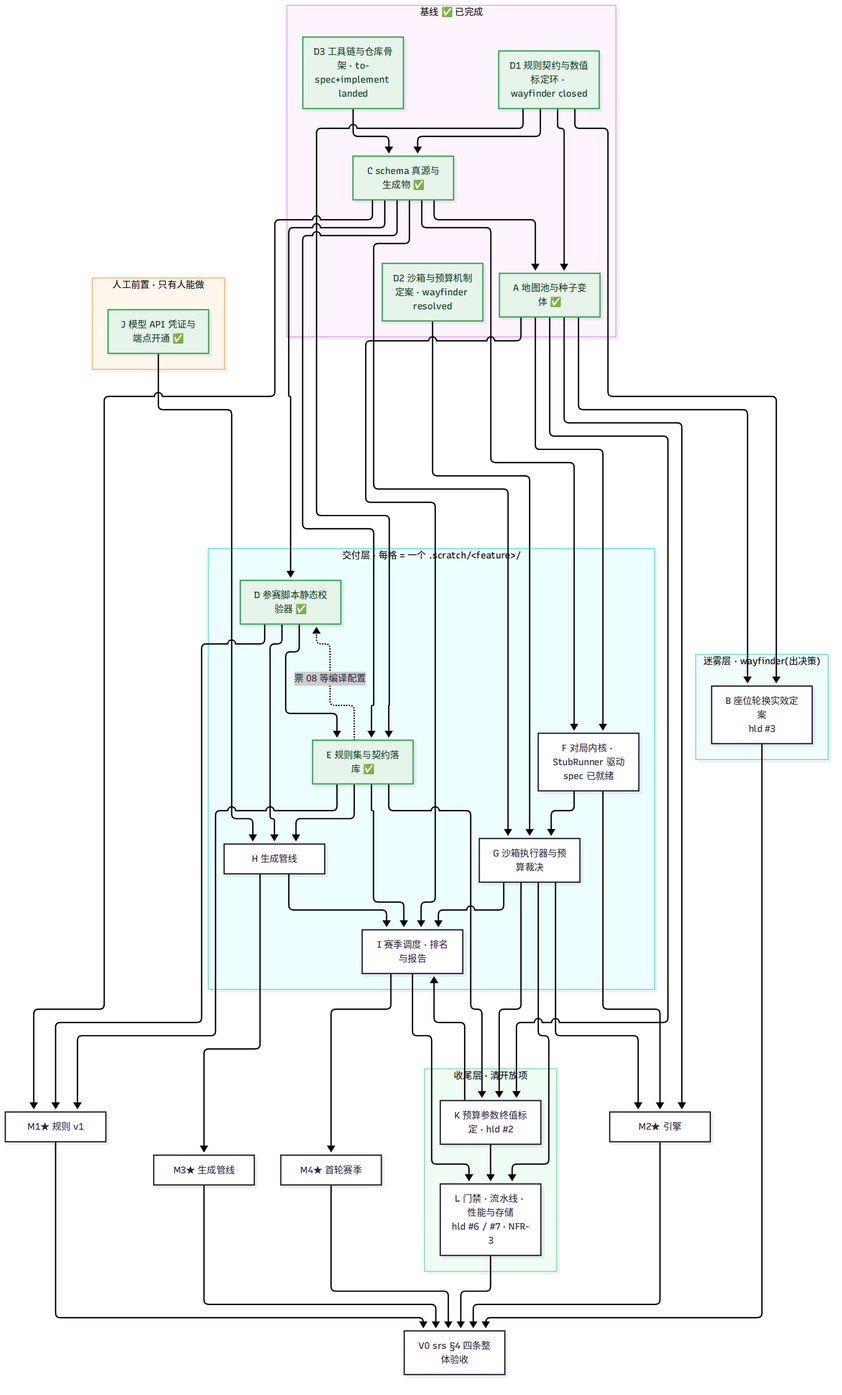
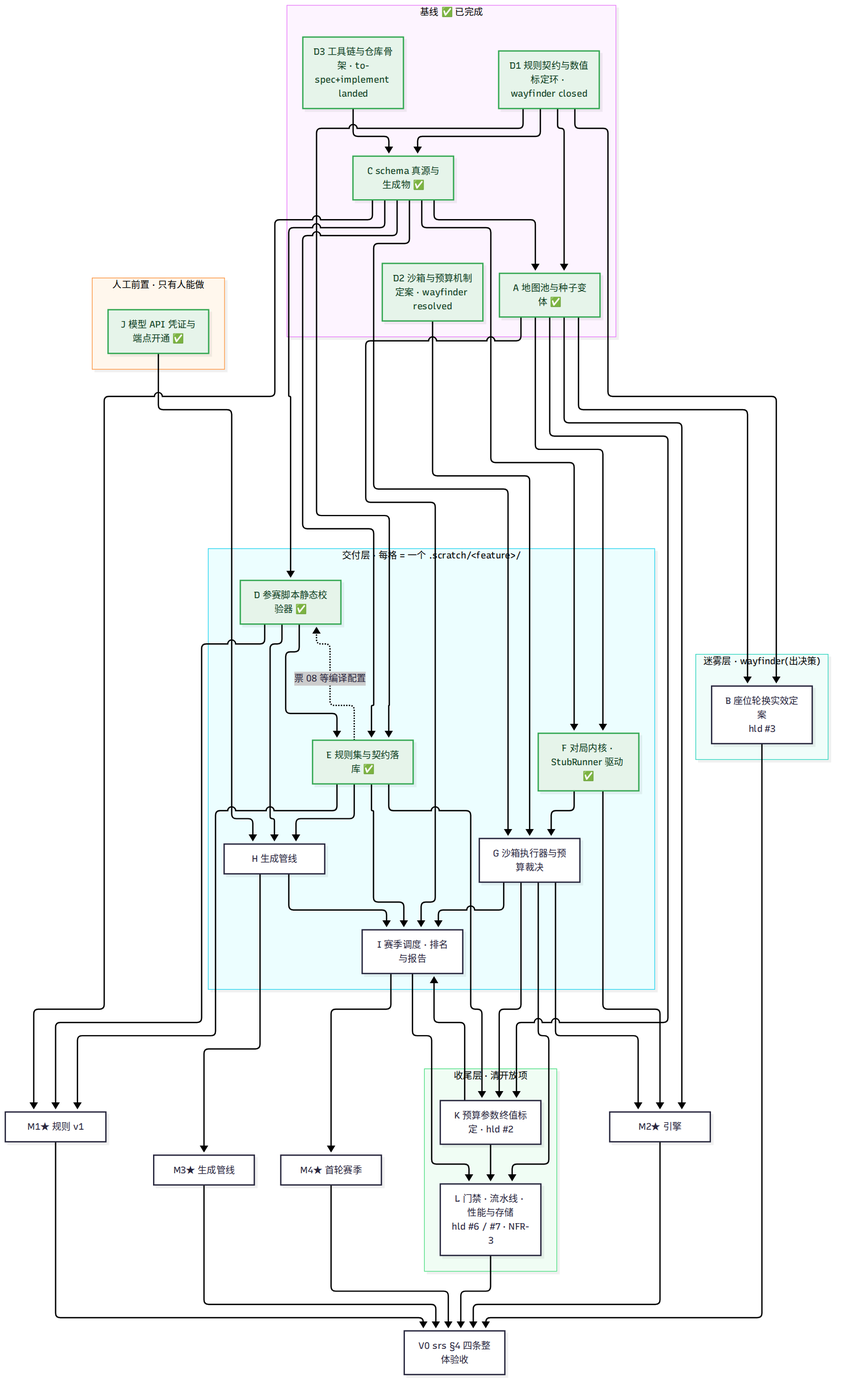
docs: 设计文档对账、欠账销账与六类裁法的留痕(票 12)

Changed region(s): [[0.625, 0.4988, 0.7812, 0.5924]]

diff --git a/packages/tools/src/api-doc.test.ts b/packages/tools/src/api-doc.test.ts
@@ -295,3 +295,39 @@ it("丢弃 vs 异常对照表里被点名的错误码与符号表一致", () => 
     );
   }
 });
+
+/**
+ * **契约面 §2.1 那份快照形状与类型面逐字段一致。**
+ *
+ * ── 它补的是哪一个洞 ──
+ * `api.md` §2.1 有一段手写的快照形状(`type Player` / `type Unit` / `type Site`),类型面
+ * (`packages/schema/script-api/index.d.ts`)里也各有一份。这段散文曾经是「等回填的承诺」,
+ * 现在它自称是类型面的投影——投影回来之后,它就不再是承诺,而是**可以被对齐**的两份形状:
+ * 字段名或次序改了任何一边,另一边就是一处会误导模型的第二家(模型照文档写、编译器照声明判)。
+ *
+ * ── 判据为什么是字段名而不是逐字文本 ──
+ * 两边本来就不逐字相同(契约面写 `owner: 0 | 1 | 2 | 3`,类型面写 `owner: PlayerIndex`;
+ * 契约面把产线订单内联成 `{ type, remainingTicks }`,类型面拆成一个具名类型)。逐字比会把
+ * 这些**有意的写法差**全判成红,而它们不改变「有哪些字段」。所以判据取**字段名与次序**:
+ * 它正好是「投影」这个词在字段这一层上的含义。
+ *
+ * 反例:把类型面 `Site` 的 `producing` 删掉一层(或改个名),本条红。
+ */
+const typeMemberNames = (source: string, typeName: string): readonly string[] => {
+  const block = new RegExp(`type ${typeName} = \\{([\\s\\S]*?)\\n\\};`).exec(source);
+  expect(block, `抽不出 \`type ${typeName} = { … }\``).not.toBeNull();
+  return (block?.[1] ?? "")
+    .split("\n")
+    .map((line) => /^\s*(?:readonly\s+)?(\w+)\??\s*:/.exec(line)?.[1])
+    .filter((name): name is string => name !== undefined);
+};
+
+it("契约面 §2.1 的快照形状与类型面逐字段一致", () => {
+  const doc = readFileSync(API_DOC, "utf8");
+  const face = readFileSync(TYPE_FACE, "utf8");
+  for (const name of ["Player", "Unit", "Site"]) {
+    expect(typeMemberNames(doc, name), `${name}:契约面与类型面字段不一致`).toEqual(
+      typeMemberNames(face, name),
+    );
+  }
+});

diff --git a/packages/tools/src/script-api-type-surface.test.ts b/packages/tools/src/script-api-type-surface.test.ts
@@ -230,8 +230,12 @@ function loop(): void {
   // 那样这一条就只证明「有个叫 type / kind 的字段」,证不出它的取值域。
   const unitType: "worker" | "melee" | "ranged" | "cavalry" = snap.units[0]!.type;
   const siteKind: "base" | "resource" = snap.sites[0]!.kind;
+  // 产线订单的 type 也是契约面逐字段承诺的一栏(type 与 remainingTicks),单独读一次。
+  const producedType: "worker" | "melee" | "ranged" | "cavalry" | null =
+    snap.sites[0]!.producing?.type ?? null;
   void unitType;
   void siteKind;
+  void producedType;
 }
 `;
   const result = compile(probe);

diff --git a/.scratch/engine-core/issues/12-doc-reconciliation.md b/.scratch/engine-core/issues/12-doc-reconciliation.md
@@ -24,15 +24,128 @@
 
 **Blocked by:** 11（确定性验收、首触复核与读数）
 
-**Status:** ready-for-agent
+**Status:** resolved
 
-- [ ] 清单每一行都被处理,并在 spec 末尾那张表上逐行标注「已改 / 有意不改 + 原因」。**有意不改的行要写原因**,不能留空
-- [ ] 里程碑 DAG 的 F 行改成已收口,并把两处与原记载不同的裁留在图上:唯一外部缝是那一道主缝、处理器的 tick 缝是私有内部缝不进导出面;复算那一格归沙箱执行器
-- [ ] 里程碑 DAG 的图重画(那一格有配套 PNG,PNG 与 mermaid 源要一起更新,不能让其中一份单独过期)
-- [ ] 「读入端强制校验覆盖面」那一段:覆盖面变了就改覆盖面,**并把「为什么不完整」的理由一起改**。理由不变而覆盖面变了,是本仓明确点名要拒的那类假账
-- [ ] 真源包待回填清单里三条全部销掉,改写成「形状已定 + 值的时机」;**不新加条目**(对局输入那份形状本就不属于待回填那一类,理由逐字写进注释)
-- [ ] 契约面那段「还没有对应的投影」改掉,并且**核一遍契约面与类型面逐字段一致**——投影回来了,它就不再是承诺
-- [ ] 规则侧首触那一段的复核读数已在本票 11 写入;本票只核它**没被顺手改成「墙是杠杆」**那类与墙无关的结论
-- [ ] 两份 ADR 的链接从里程碑 DAG 与本 feature 的 spec 都可达;ADR 本身**一字不改**(它们是当时的裁决,不是现在的状态)
-- [ ] 一条反向核对:清单里任何一行若在实现里走了另一条路,要么改实现要么改这一行并写明理由——**不许两边各留一份**
-- [ ] 全部机器门禁绿:格式、lint、类型、耦合、禁浮点、声明依赖、生成物漂移、基准产物逐字节可复现。最后一条尤其要跑:基准产物读的是入库的编译脚本,本 feature 改了状态模型形状,若那些产物走的是受影响的路径,这条会先红
+- [x] 清单每一行都被处理,并在 spec 末尾那张表上逐行标注「已改 / 有意不改 + 原因」。**有意不改的行要写原因**,不能留空 → 证据:`.scratch/engine-core/spec.md` 末节表加了「处置」列,逐行标注;另附「有意不改的行 + 原因」(5 条),并把票 01–11 的偏差一并收进同节
+- [x] 里程碑 DAG 的 F 行改成已收口,并把两处与原记载不同的裁留在图上:唯一外部缝是那一道主缝、处理器的 tick 缝是私有内部缝不进导出面;复算那一格归沙箱执行器 → 证据:`docs/diagrams/v0-milestone-dag.md`(mermaid 节点、节点表、当前 frontier、当前位置、classDef 五处改 ✅;F 行明写「外部缝唯一是 `runMatch`,`processTick` 是私有内部缝不进导出面」「复算那一格(`modelwar verify`)归沙箱执行器 G」)
+- [x] 里程碑 DAG 的图重画(那一格有配套 PNG,PNG 与 mermaid 源要一起更新,不能让其中一份单独过期) → 证据:`mmdc -s 2 -i docs/diagrams/v0-milestone-dag.md -o docs/diagrams/v0-milestone-dag.png` 成功输出 `v0-milestone-dag-1.png`(1568×2598,与入库图同尺寸,与改后源同批提交)
+- [x] 「读入端强制校验覆盖面」那一段:覆盖面变了就改覆盖面,**并把「为什么不完整」的理由一起改**。理由不变而覆盖面变了,是本仓明确点名要拒的那类假账 → 证据:`docs/hld.md:151` 重写:逐类(规则集 / 地图 / 存档元数据 / 对局输入 / 回放行 / 终局结果)写清接线;理由改成「⑤⑥ 等赛季 I、③ 等生成管线 H」
+- [x] 真源包待回填清单里三条全部销掉,改写成「形状已定 + 值的时机」;**不新加条目**(对局输入那份形状本就不属于待回填那一类,理由逐字写进注释) → 证据:票 01/09 已销,`PENDING_SHAPES = []`、`PendingShapeId = never`;本票核对头注自洽,未加条目
+- [x] 契约面那段「还没有对应的投影」改掉,并且**核一遍契约面与类型面逐字段一致**——投影回来了,它就不再是承诺 → 证据:`docs/rules-v1/api.md:148-156` 重写;新增 `packages/tools/src/api-doc.test.ts` 的断言,核 §2.1 的 `Player`/`Unit`/`Site` 字段名与序与类型面逐字段一致(机器核对)
+- [x] 规则侧首触那一段的复核读数已在本票 11 写入;本票只核它**没被顺手改成「墙是杠杆」**那类与墙无关的结论 → 证据:`docs/gdd.md:123` 段首仍是「**墙不是首触的杠杆**」、复核结论仍是「墙不改变首触」,未动一字
+- [x] 两份 ADR 的链接从里程碑 DAG 与本 feature 的 spec 都可达;ADR 本身**一字不改** → 证据:DAG F 行链 `adr/0005`、`adr/0006`;spec 里三处裸路径改成 markdown 链接(0004/0005/0006);`docs/adr/*.md` 未改
+- [x] 一条反向核对:清单里任何一行若在实现里走了另一条路,要么改实现要么改这一行并写明理由——**不许两边各留一份** → 证据:spec 末节「反向核对」段;逐条核过,**无一行是「走了另一条路而文档不改」**
+- [x] 全部机器门禁绿:格式、lint、类型、耦合、禁浮点、声明依赖、生成物漂移、基准产物逐字节可复现。最后一条尤其要跑:基准产物读的是入库的编译脚本,本 feature 改了状态模型形状,若那些产物走的是受影响的路径,这条会先红 → 证据:`pnpm run check` **EXIT=0**(见 Answer 的读数;`check:bench` 3 份逐字节一致)
+
+## Answer
+
+### 改动文件清单
+
+| 文件 | 改了什么 |
+|---|---|
+| `docs/hld.md` | 状态模型(`productions[]` → `Site.producing`,删 `Production`,补 `Outcome.reason` 第四档)、tick 行删栏、meta 行加 `runner` 并说明桩下四栏为 `null`、事件流补 `first-contact` 判据指针与 gdd 欠账、`:151` 覆盖面重写、`§7.4` 两行(形状已定+读入端已接线;runner 消歧)与 `:721` 哈希口径、`:632` API 误用承载方、开放项 #6/#7 补读数 |
+| `docs/rules-v1/api.md` | `:148-156` 那段「还没有对应的投影」改写成「类型面的一份投影」 |
+| `docs/diagrams/v0-milestone-dag.md` | F 行五处改 ✅、L 行与 `F ⇢ L` 边按票 11 修正、frontier 换 G、wave 4 改 ✅ |
+| `docs/diagrams/v0-milestone-dag-1.png` | 与改后 mermaid 源同批重渲染(1568×2598) |
+| `.scratch/engine-core/spec.md` | 末节表加「处置」列逐行标注 + 「清单外偏差与反向核对」段;三处 ADR 裸路径改 markdown 链接 |
+| `packages/tools/src/api-doc.test.ts` | 新增一条断言:契约面 §2.1 快照形状与类型面逐字段一致 |
+| `packages/tools/src/script-api-type-surface.test.ts` | 快照字段探针补读 `producing.type`(契约面承诺的嵌套字段) |
+
+真源包两份(`pending.ts` / `script-surface.ts`)**只核未改**(票 01/03/09 已落)。未跑 `pnpm run generate` 有漂移:六件生成物「已是最新」。`fix:runMatch` 引擎实现、`rulesets/*`、`maps/*`、`docs/adr/*.md` 一字未动。
+
+### 11+13 行清单的逐行处置
+
+| 清单行 | 处置 |
+|---|---|
+| 状态模型字面量(hld:414) | **已改**:`Site` 加 `producing: { type; remainingTicks } \| null`、删 `productions[]` 与 `Production`;顺带把同块的 `Outcome.reason` 补上第四档 `'all-eliminated'`(票 09 取值,原注释停在三档) |
+| tick 行栏位(hld:728) | **已改**:删 `productions` 栏 |
+| meta 行(hld:726-727) | **已改**:列上 `runner`;补「`runner` 是判别式,`stub` 四栏全 `null`」 |
+| 事件流那段(hld:734) | **已改**:补 `first-contact` 判据(Chebyshev ≤ 2、整局一条)是观测量、精确定义欠账在 gdd |
+| 读入端覆盖面(hld:151) | **已改**:六类逐类写接线,「为什么不完整」理由一并改 |
+| 冻结脚本存档段(hld:714-715) | **已改**:`:719-720` 重写,「runner」消歧为第一个执行脚本的进程;`:721` 哈希口径写清 |
+| API 误用(hld:632) | **已改**:承载方落实为类型面本身 + 链 ADR-0006 |
+| 开放项 #6/#7(hld:820-821) | **已改**:补读数(0.307/0.245 ms;2 388 636 B、3 981.1 B/tick)+「观测项不是承诺」 |
+| 契约面快照声明(api.md:148-156) | **已改**:「还没有对应的投影」改掉;并加机器断言核逐字段一致 |
+| 真源包待回填清单(pending.ts) | **已改(票 01/09)**:三条全销、`PENDING_SHAPES = []`;本票核对自洽 |
+| 真源包符号表头注(script-surface.ts) | **已改(票 03)**:15 条 `signature` 删除、头注改单向投影;本票核对自洽 |
+| 里程碑 DAG F 行(+ PNG) | **已改**:五处改 ✅、两处裁留下、L 行/`F ⇢ L` 边按票 11 修正、PNG 重渲染 |
+| 「覆盖面只有两类」那段 | **已改**:与 hld:151 同一处 |
+
+**有意不改的行 + 原因**(逐条写原因,不留空):
+
+1. **`archive-meta.validation` 取 `{passed, errors}`、`generatedAt` 只 `minLength: 1`**(票 01 记的取值级差):hld §7.4 对这两项只写「校验结果」四个字,没写字段形状;形状的家在 `packages/schema/src/archive-meta.ts`。写进 hld 会让它变成真源的第二个家。**不改**。
+2. **规则集缺「能不能采集」这一栏**(票 07 的契约面缺口,`harvestRate` 是速率不是资格):这是真缺口不是措辞差,归契约面那一轮(与 `rules.md` §5 一起);本 feature 改不了规则面(`rulesets/*` 不动)。**不改**,指针留在 `processor/economy.ts` 与票 07 的 Answer。
+3. **hld §4.2 vs §7.5(无效 intent vs 八种事件)**:§4.2 说无效 intent 写入事件流,§7.5 八种事件无此类;实现按后者(票 04 静默丢弃,不加第九种事件)。改它要动机制表述或跨进程形状,不在本 feature 范围。**不改**,指针在票 04 的 Answer。
+4. **`docs/rules-v1/rules.md` §5 占位**:规则侧下一轮的事(这笔在 gdd §8 记为 #14);`rules.md` 的生成区块本票不碰。**不改**。
+5. **`packages/replay` 再导出真源包类型**:更干净是给 engine 补一条 `@model-war/schema` 声明依赖;这处工程结构小欠账不改任何可观察行为,动它会牵动包图与门禁,归后续。**不改**。
+
+### PNG 重渲染的实际结果
+
+**成功。** 票面建议的命令 `mmdc -i … -o docs/diagrams/v0-milestone-dag.png` 默认 scale=1,产出的图是 **784×1299**,与入库的 **1568×2598** 不是同一尺寸。加上 `-s 2` 后复现同尺寸:
+
+```
+mmdc -s 2 -i docs/diagrams/v0-milestone-dag.md -o docs/diagrams/v0-milestone-dag.png
+```
+
+输出 `v0-milestone-dag-1.png`(mmdc 对 markdown 输入自动追加 `-1`,这正是入库文件名带 `-1` 的来源),1568×2598,与改后源同批提交。**PNG 与 mermaid 源一起更新,没有一份单独过期。** 因此「PNG 未能重渲染」这条有意不改**不成立**。
+
+### 四类覆盖面的逐类接线实况(与「为什么不完整」的新理由)
+
+去实况读的四处:`apps/cli/src/validator.ts`、`apps/cli/src/match/index.ts`、`apps/cli/src/commands.ts`、`packages/replay/src/render.ts`。
+
+| 类 | 形状(真源包) | 读入端校验器 | 接线实况 |
+|---|---|---|---|
+| 规则集 | `ruleset.ts` | `validateRuleset` | **已接线**:`match/index.ts` 装载段调用,版本三处不一致即拒跑 |
+| 地图 | `map.ts` | `validateMap` | **已接线**:`map-lint` + `match` 两处 |
+| 存档元数据 | `archive-meta.ts` | `validateArchiveMeta` | **已接线**:`match/index.ts` 逐座位调(缺档/哈希/轮数) |
+| 对局输入 | `match-input.ts` | `validateMatchInput` | **已接线**:`match/index.ts` 装载段调(版本/四座位存档/各文件哈希) |
+| 回放行(meta/tick) | `replay-line.ts`(含两份 JSON Schema) | **无** | **未接线**:读盘渲染器住 `@model-war/replay`,只 `JSON.parse` 后防御式读栏,不跑 schema |
+| 终局结果(result) | `replay-line.ts` | `validateReplayResultLine` | **未接线**:纯函数已交付 + 用例,无生产调用点 |
+
+**新理由**:上一版缺的是「字段未回填」,本 feature 之后六类形状全落库,缺的只剩接线与一处值——**⑤ 回放行 与 ⑥ 终局结果**的形状/JSON Schema 都已生成,缺的是**读入端调用点**:读盘渲染器住 `@model-war/replay`(依赖方向 `schema ← replay`),不能反向依赖持有唯一 ajv 实例的 `apps/cli`,接线归「回放读入端校验归哪一层」的裁定,等**赛季调度 I**(回放的正式消费者与报告路径);**③ 存档元数据**的形状与读入端都已到位,但它记的**字段值**由**生成管线 H** 写出,H 落地后才第一次校验到真实存档产物。合起来:**剩下三类等生成管线 H 与赛季 I**。理由与覆盖面写在同一段(`hld.md:151`),没有「理由不变而文字变」。
+
+### 两份 ADR 是哪两份、链接补在哪
+
+本 feature 新开的是 **ADR-0005**(`docs/adr/0005-runner-seam-is-the-two-bridge-calls.md`)与 **ADR-0006**(`docs/adr/0006-script-api-type-surface-lands-in-engine.md`)。两份链接从**里程碑 DAG 的 F 行**(`adr/0005`、`adr/0006` 两处相对链接)与**本 feature 的 spec**(本票把 `docs/adr/0004`、`0005`、`0006` 三处裸路径改成 markdown 链接)都可达。`hld.md:632` 提到的编号是 **ADR-0006**,核对无误——票 03 一度撞号新开的 `0004-script-tsconfig-and-injection-surface.md` 已删,未重现。**`docs/adr/*.md` 一字未改。**
+
+### 契约面与类型面的逐字段对照(做法与结果)
+
+- **契约面** = `docs/rules-v1/api.md` §2.1 那段手写的 `type Player / type Unit / type Site`; **类型面** = `packages/schema/script-api/index.d.ts`。
+- **做法**:新增一条机器断言(`packages/tools/src/api-doc.test.ts`,该文件本就是「文档 ↔ 机器」对照的宿主):把两边的 `type X = { … }` 块抽出成员名与序,逐个 `toEqual`。比**字段名与序**而不比逐字文本——两边本就有意的写法差(契约面 `owner: 0|1|2|3` / 类型面 `owner: PlayerIndex`;契约面把产线订单内联、类型面拆成具名 `SiteProduction`),逐字比会把它们全判红。
+- **结果**:`Player` / `Unit` / `Site` 三个块的字段名与序**两边逐字段相同**(Site 九栏含 `remaining` 与 `producing`)。另外 `script-api-type-surface.test.ts` 的探针原来已逐个读快照字段,本票补上 `producing.type`,让嵌套的那一栏也被编译期读一次。
+
+### 反向核对(逐条处置)
+
+- **没有一行「实现走了另一条路而文档不改」。** 唯一措辞级差异是上面「有意不改 #1」(`validation` 取 `{passed, errors}`、`generatedAt` 只 `minLength: 1`),它落在 hld 没写死的地方,不构成「两边各留一份」。
+- **`runMatch` 终局行(票 02 vs 09)**:票 02 说「票 09 落地后这一行不用改」;核过票 09 确实只把兜底支换成直接用 `state.outcome`(票 09 Answer §4.1),一致,无第二家。
+- **`input.json` 哈希口径(票 01)**:hld:721 原文「各文件 hash」含糊,实现取三处(两存档 + 地图,不含 `script.ts`),座位由 `archives` 下标承载。本票把 `hld.md:721` 写清,消掉这处「第二个家」。
+- **hld:719 那句「读入端不校验它」已过时**:本票改掉(形状已定 + 读入端已接线)。
+
+### 门禁读数
+
+`pnpm run check` → **EXIT=0**(`/tmp/t12-check.log`):
+
+- `fmt`:`All matched files use the correct format`;`oxlint` 无错;`coupling` ok;`check:no-float`「检查 41 个文件,无违规」
+- `tsc -b` + `oxlint --type-aware` 过
+- `vitest run --project unit --project property`:**60 files / 676 tests 全过**
+- `check:deps`:**111 modules, 233 dependencies, no violations**
+- `check:declared-deps`:43 文件,已声明 2 个依赖,无未声明引用
+- `check:drift`:注册 6 件,**无漂移**
+- `check:bench`:**3 份逐字节一致**(8831 / 7209 / 5850 B)
+- 格式:改动文件已 `pnpm exec oxfmt`
+
+**`check:bench` 的那条点名项**:在新建的 worktree 上**先空跑 `pnpm run check:bench` 会红**,但原因不是状态模型形状,而是 `packages/*/dist` 尚未构建(`ERR_MODULE_NOT_FOUND: packages/tools/node_modules/@model-war/schema/dist/index.js`)。`pnpm run check` 内含 `check:types`(先 `tsc -b`),构建后再跑 `check:bench` 即绿——**基准产物走的是入库的编译脚本,没有被状态模型形状改动踩到**。没有为让门禁变绿而改任何判定逻辑。
+
+### 给后续票的话
+
+**给 L(门禁 / 流水线 / 性能与存储)**:
+- 读数文件在 `.scratch/engine-core/readings.md`(每 tick 体量 3 981.1 B/tick、`buildSnapshot` 0.307 ms、只 `structuredClone` 0.245 ms);两项在 hld §12 #6/#7 已标「观测项不是承诺」,**停止条件归 L**。
+- 三条桩结论的夹具宿主在 `packages/engine/src/fixtures/`(`harness.ts` + `depletion.ts`/`endgame.ts`/`cavalry.ts` + `fixtures.test.ts`);放大规模用 `MW_FC_N=64 MW_DEP_N=8 MW_EG_N=4 MW_CAV_N=4`。
+- 十次重跑 hash 的接线位置是 `packages/engine/src/determinism.test.ts`(已在 check 链上);L 的集成门禁要在**跨进程 / 真脚本**这一层再跑同一判据(L 的定义含 `verify`)。
+- 量不到的缺口:#10 的「骑兵伤害份额」需要给回放加战斗统计栏;#7 的「拉满经济剖面」当前代理够不到 50% 枯竭。
+
+**给 G(沙箱执行器与预算裁决)**:
+- **唯一外部缝是 `runMatch`**;**`processTick` 是私有内部缝,不进包导出面**;不要从 CLI 或赛季调度直接依赖它。
+- **复算那一格(`modelwar verify`)不实现,归 G**(它要重新执行真脚本);`match-result` 与回放行形状已定,可直接接。
+- **类型面(形状)归 F、注入面(名字铺放时机、桥删除时机)归 G**,同源于一份形状;G 若发现某名字在类型面里而铺不出来,那是 G 的缺陷,不是「类型面漏了」。
+- `sandbox-runtime.ts` 的桩哈希换成真产物;`validateReplayResultLine` 的读入端接线也归「回放读入端校验归哪一层」的裁定。

diff --git a/.scratch/engine-core/spec.md b/.scratch/engine-core/spec.md
@@ -101,7 +101,7 @@ Status: ready-for-agent
 
 ### 执行器:缝就是两次桥调用,StubRunner 是第一个适配器
 
-`engine:runner` 的缝照 hld §4.5 原样交付:`__setSnapshot(snapshot)` 进、`__drainIntents()` 出。详见 `docs/adr/0005-runner-seam-is-the-two-bridge-calls.md`。
+`engine:runner` 的缝照 hld §4.5 原样交付:`__setSnapshot(snapshot)` 进、`__drainIntents()` 出。详见 [ADR-0005](../../docs/adr/0005-runner-seam-is-the-two-bridge-calls.md)。
 
 `StubRunner` 有一条硬约束:**必须同样做「拷一份快照、拿到 intent 数组」两件事,不能抄近路直接读引擎状态**。它一旦读真状态,测试就在验一条生产不走的路,而 FR-3 AC1 会变得无法证伪。
 
@@ -184,9 +184,9 @@ Status: ready-for-agent
 
 ### 脚本 API 的类型面归本 feature
 
-详见 `docs/adr/0006-script-api-type-surface-lands-in-engine.md`。要点:类型面描述「脚本能读到什么状态字段」与「action 的签名」,前者的源头是本 feature 的状态模型、后者的源头是 `intents` 的 `check()`/`run()`,而沙箱执行器只搬名字、不定义任何一个。`packages/schema/src/script-surface.ts` 那 22 行 `signature` 字符串在本次回填中**由类型面取代**(生成或删除,不并列存在——它自己写着「签名是**类型面**的事实」)。
+详见 [ADR-0006](../../docs/adr/0006-script-api-type-surface-lands-in-engine.md)。要点:类型面描述「脚本能读到什么状态字段」与「action 的签名」,前者的源头是本 feature 的状态模型、后者的源头是 `intents` 的 `check()`/`run()`,而沙箱执行器只搬名字、不定义任何一个。`packages/schema/src/script-surface.ts` 那 22 行 `signature` 字符串在本次回填中**由类型面取代**(生成或删除,不并列存在——它自己写着「签名是**类型面**的事实」)。
 
-连带两条:「API 误用」那条承载条款第一次有人;`docs/adr/0004` 留的那笔账(符号表注释里的「刻意为空,回填触发条件是沙箱执行器产出注入面」在 ADR-0004 之后会说错话)随本次回填销掉。
+连带两条:「API 误用」那条承载条款第一次有人;[ADR-0004](../../docs/adr/0004-contract-api-surface-lands-in-rules-landing.md) 留的那笔账(符号表注释里的「刻意为空,回填触发条件是沙箱执行器产出注入面」在 ADR-0004 之后会说错话)随本次回填销掉。
 
 **生成管线的编译步骤在本 feature 落地时解锁,不必等沙箱执行器**——`tsconfig.scripts.json` 的类型面一填,「编译通过 + 白名单反转 + API 签名」三件事同时成立。
 
@@ -206,19 +206,53 @@ Status: ready-for-agent
 
 ### 要一并修正的设计文档
 
-| 文档 | 改什么 |
-|---|---|
-| `hld.md:414` | 删 `productions: Production[]`,`Site` 上加 `producing` |
-| `hld.md:728` | tick 行删 `productions` 栏 |
-| `hld.md:726-727` | meta 行加 `runner` 栏,并说明四栏沙箱值在桩执行器下为 `null` |
-| `hld.md:734` | 补首触判据的指针与 gdd 的欠账 |
-| `hld.md:151` | 规则集装载接线完成后改「按尚未兑现记」 |
-| `hld.md:714-715` | 明确「runner」指第一个执行脚本的进程 |
-| `hld.md:632` | 「API 误用」承载方落实为类型面(ADR-0006) |
-| `hld.md:820-821`(开放项 #6 / #7) | 回放体量的存储/IO 方案需要本 feature 的实测读数作为输入,本 feature 出读数不出方案 |
-| `docs/rules-v1/api.md:148-156` | 投影回来之后那段「这一段是契约侧的声明,目前还没有对应的投影」改掉 |
-| `packages/schema/src/pending.ts` | 销掉 `archive-meta`;`match-result` 与 `replay-line` 改写成「形状已定」 |
-| `packages/schema/src/script-surface.ts` | 15 条 `signature` 由类型面取代;注释里「刻意为空」那段按 ADR-0004:17 改掉 |
+| 文档 | 改什么 | 处置(票 12 逐行对账) |
+|---|---|---|
+| `hld.md:414` | 删 `productions: Production[]`,`Site` 上加 `producing` | **已改**:删 `productions` 栏、加 `Site.producing`、删 `Production` 接口;同一代码块里 `Outcome.reason` 顺带补上第四档 `'all-eliminated'`(票 09 的取值,原注释停在三档) |
+| `hld.md:728` | tick 行删 `productions` 栏 | **已改**:tick 行只剩 `{tick, players, units, sites, events, stateHash}` |
+| `hld.md:726-727` | meta 行加 `runner` 栏,并说明四栏沙箱值在桩执行器下为 `null` | **已改**:meta 行列上 `runner`;补一段说「`runner` 是判别式,`stub` 四栏全 `null`」 |
+| `hld.md:734` | 补首触判据的指针与 gdd 的欠账 | **已改**:补 `first-contact` 判据(Chebyshev ≤ 2、整局第一次)是观测量、精确定义欠账在 gdd 一侧 |
+| `hld.md:151` | 规则集装载接线完成后改「按尚未兑现记」 | **已改**:在规则集与地图两类之外补上四类(存档元数据 / 对局输入 / 回放行 / 终局结果)的接线实况、合共六类;「为什么不完整」的理由一并改成「⑤⑥ 等赛季 I、③ 等生成管线 H」 |
+| `hld.md:714-715` | 明确「runner」指第一个执行脚本的进程 | **已改**:`hld.md:719-720` 两行重写(形状已定 + 读入端已接线;runner 消歧);`hld.md:721` 的哈希口径也一并写清(三处哈希、不含 `script.ts`、座位由下标承载) |
+| `hld.md:632` | 「API 误用」承载方落实为类型面(ADR-0006) | **已改**:改为「承载方即类型面本身」并链到 ADR-0006 |
+| `hld.md:820-821`(开放项 #6 / #7) | 回放体量的存储/IO 方案需要本 feature 的实测读数作为输入,本 feature 出读数不出方案 | **已改**:补上读数(0.307 / 0.245 ms;2 388 636 B、3 981.1 B/tick)并标「观测项不是承诺」,停止条件仍归 L |
+| `docs/rules-v1/api.md:148-156` | 投影回来之后那段「这一段是契约侧的声明,目前还没有对应的投影」改掉 | **已改**:改写成「类型面的一份投影」;并加一条机器断言(`api-doc.test.ts`)核 §2.1 快照形状与类型面逐字段一致 |
+| `packages/schema/src/pending.ts` | 销掉 `archive-meta`;`match-result` 与 `replay-line` 改写成「形状已定」 | **已改(票 01 / 09)**:三条全销、`PENDING_SHAPES` 清空为 `[]`;本票核对头注与 `PendingShapeId = never` 自洽,未再加条目 |
+| `packages/schema/src/script-surface.ts` | 15 条 `signature` 由类型面取代;注释里「刻意为空」那段按 ADR-0004:17 改掉 | **已改(票 03)**:签名删除、头注改为单向投影;本票核对自洽 |
+| `docs/diagrams/v0-milestone-dag.md` F 行 + 配套 PNG | 状态改成已收口,两处裁留在图上,PNG 与源一起更新 | **已改**:F 节点 / 节点表 / 当前 frontier / 当前位置 / mermaid classDef 全改 ✅;L 行与 `F ⇢ L` 边按票 11 修正;PNG 用 `mmdc -s 2` 重渲染(1568×2598,与源同批) |
+| 「读入端强制校验覆盖面只有两类」那段 | 覆盖面扩到四类,逐类写清接线;「为什么不完整」的理由一起改 | **已改**:与 `hld.md:151` 同一处——规则集与地图两类之外新增四类(存档元数据 / 对局输入 / 回放行 / 终局结果),逐类写清接线,理由改成「剩下三类等生成管线 H 与赛季 I」 |
+
+### 清单外一并收进的偏差(票 01–11 的 `## Answer`)与反向核对
+
+**逐票核过的契约/文档偏差,处置如下**(任务书列的只是索引,以各票 `## Answer` 为准):
+
+- 票 01:`hld.md:719`「在此之前本仓没有它的 JSON Schema,读入端不校验它」**已过时** → 本票改掉;`hld.md:720` 的「runner 启动即校验」未消歧 → 本票消歧;`input.json` 哈希三处(不含 `script.ts`)、座位轮换没落进 `input.json` → 本票写进 `hld.md:721`;`archive-meta.validation` 取 `{passed, errors}`、`generatedAt` 只 `minLength: 1` → **有意不改**(见下)。
+- 票 02:`stateHash` 载荷 / 回放行 / meta 行形状定死;`runMatch` 终局行票 09 后改用 `state.outcome`。**核过**:02 说「票 09 落地后这一行不用改」,票 09 确实只用 `state.outcome` 替换了兜底支,一致。
+- 票 06:`producing` 那节的散文承诺已由形状兑现 → 由票 06 实现,本票核对。
+- 票 07:**契约面缺口——规则集没有「能不能采集」这一栏**(`harvestRate` 是速率不是资格),映射只能由代码(类型名 `worker`)承载 → **有意不改 + 原因**(见下)。
+- 票 09:`pending.ts` 已清空 → 核对自洽;`validateReplayResultLine` 已交付但未接线 → 本票写进 `hld.md:151`(与「回放读入端校验归哪一层」一起等赛季 I)。
+- 票 11:`docs/gdd.md:123` 已追加首触复核读数与结论 → 本票**只核不写**(见下);读数文件、三条夹具已建 → hld 开放项 #6/#7 与 DAG 的 L 行 / `F ⇢ L` 边已带指针。
+
+**仓库里已记录的其它偏差,逐条验**:
+
+- **hld §4.2 vs §7.5(无效 intent vs 八种事件)**:§4.2 说无效 intent「写入当 tick 事件流」,§7.5 的八种事件里没有这一类;实现按后者(票 04 静默丢弃,不加第九种事件)。改它要动机制表述或跨进程形状,都不在本 feature 范围 → **有意不改 + 原因**,指针留在票 04 的 Answer。
+- **`docs/rules-v1/rules.md` §5 占位 vs gdd §3.2**:那笔在 gdd §8 记为 **#14**;契约面 §5 散文归规则侧下一轮。本票不碰 `docs/rules-v1/rules.md`(§5 是散文,但补它是规则侧的事)→ **有意不改 + 原因**。
+- **票 04 第三条反例的措辞不对**:票 04 的 Answer 自己更正了(那条反例实测不成立),**已由票 04 自身销掉**,无文档要改。
+- **`packages/replay` 把真源包类型原样再导出,让 engine 绕开了 manifest 声明**:更干净的路是给 engine 补一条 `@model-war/schema` 声明依赖。这处欠账不改任何可观察行为,动它会牵动包图与门禁 → **有意不改 + 原因**。
+
+**反向核对(清单里走了另一条路的行)**:逐条核过,**没有一行是「实现走了另一条路而文档不改」**。唯一的措辞级差异(`archive-meta.validation` 取 `{passed, errors}`、`generatedAt` 只 `minLength: 1`)落在 hld 没写死的地方(hld 只写「校验结果」四个字),实现的取值级取舍不构成「两边各留一份」。
+
+**有意不改的行 + 原因**(逐条):
+
+1. **`archive-meta.validation` 取 `{passed, errors}` / `generatedAt` 只 `minLength: 1`**:hld §7.4 对这两项只写「校验结果」四个字,没写字段形状;形状的家在真源包 `archive-meta.ts`。写进 hld 会让它变成真源的第二个家。**不改**。
+2. **规则集缺「能不能采集」这一栏**(票 07 的契约面缺口):这是**真缺口**不是措辞差;它归契约面那一轮(与 `rules.md` §5 一起),本 feature 改不了规则面(`rulesets/*` 不动)。**不改**。
+3. **hld §4.2 vs §7.5 无效 intent**:改它要动机制表述或跨进程事件形状,两者都不在本 feature 范围。**不改**,指针留在票 04 的 Answer。
+4. **`rules.md` §5 占位**:规则侧下一轮的事,`docs/rules-v1/rules.md` 的生成区块本票不碰。**不改**。
+5. **`packages/replay` 再导出真源包类型**:更干净是给 engine 补 `@model-war/schema` 声明依赖;这是工程结构的一处小欠账,归后续。**不改**。
+
+**两份 ADR 的链接**:本 feature 新开的是 **ADR-0005**(`runner-seam-is-the-two-bridge-calls`)与 **ADR-0006**(`script-api-type-surface-lands-in-engine`)。两份链接从里程碑 DAG 的 F 行与**本 spec** 都可达(本票把 spec 里的裸路径改成 markdown 链接)。`hld.md:632` 提到的编号是 **ADR-0006**,核对无误(票 03 一度撞号新开的 `0004-script-tsconfig-and-injection-surface.md` 已删,未重现)。
+
+**`docs/gdd.md:123` 只核不写**:票 11 已把首触复核读数与结论追加在那一节末尾,本次核对确认它**没有被顺手改成「墙是杠杆」**那类与墙无关的结论——段首仍是「**墙不是首触的杠杆**」,复核结论仍是「墙不改变首触」,基线偏差「它与墙无关」那句在。**未动一字**。
 
 ## Testing Decisions
 

diff --git a/docs/rules-v1/api.md b/docs/rules-v1/api.md
@@ -145,15 +145,15 @@ type Site = {
   所以你不需要、也不该在脚本里另记一份队列(下一小节说这件事)。
 - **快照只给读得到的东西。** 引擎内部的那些字段(对象 id 的分配器、终局结果之类)不在快照里,别去找。
 
-**这一段是契约侧的声明,目前还没有对应的投影。** 引擎的状态模型里没有这份形状
-(`packages/engine` 的 `Site` 还没有 `producing` 与 `remaining`,产线仍是一个独立的 `Production`
-类型),而脚本 API 的**类型声明面尚未回填**(家已定在真源包里,内容由对局内核与沙箱执行器回填,
-hld §6.2「API 误用」)。两件都回填之后,这一段才改为从那份声明投影,与第 3 节的签名同一处置;
-在那之前它就是本文档对字段名与语义作出的承诺,而模型必须有一份能读到的形状,所以它先落在这里。
+**这一段现在是类型面的一份投影,不再是等待回填的承诺。** 引擎的状态模型里已经有这份形状
+(`packages/engine` 的 `Site` 有 `producing` 与 `remaining`,产线就是 `Site` 上的一栏,不是独立的
+`Production` 类型),而脚本 API 的**类型声明面也已回填**(家是 `packages/schema/script-api/index.d.ts`,
+`tsconfig.scripts.json` 的 `types` 经它引入,见 [ADR-0006](../adr/0006-script-api-type-surface-lands-in-engine.md))。
+上面那份形状与类型面**逐字段一致**——`type Player` / `type Unit` / `type Site` 三个块的字段名与次序
+两边相同,由 `packages/tools/src/api-doc.test.ts` 的机器断言盯着(改一边不改另一边即红)。
 
-投影回来之前 `ErrResult`、`Intent` 这两个类型名本文档不展开(它们是类型面事实)。字段名在这段
-声明期间不改——改字段名要走一次有意的变更,像改一个错误码名那样;改成投影之后,改名的唯一去处
-就是那份声明本身。
+`ErrResult`、`Intent` 这两个类型名现在的家也在类型面。字段名不改——改字段名要走一次有意的变更,
+像改一个错误码名那样;它的唯一去处就是那份声明本身,上面这一块要跟着同步(机器断言会盯着,分叉即红)。
 
 ### 2.2 玩家侧三项与产线订单:在哪读
 
